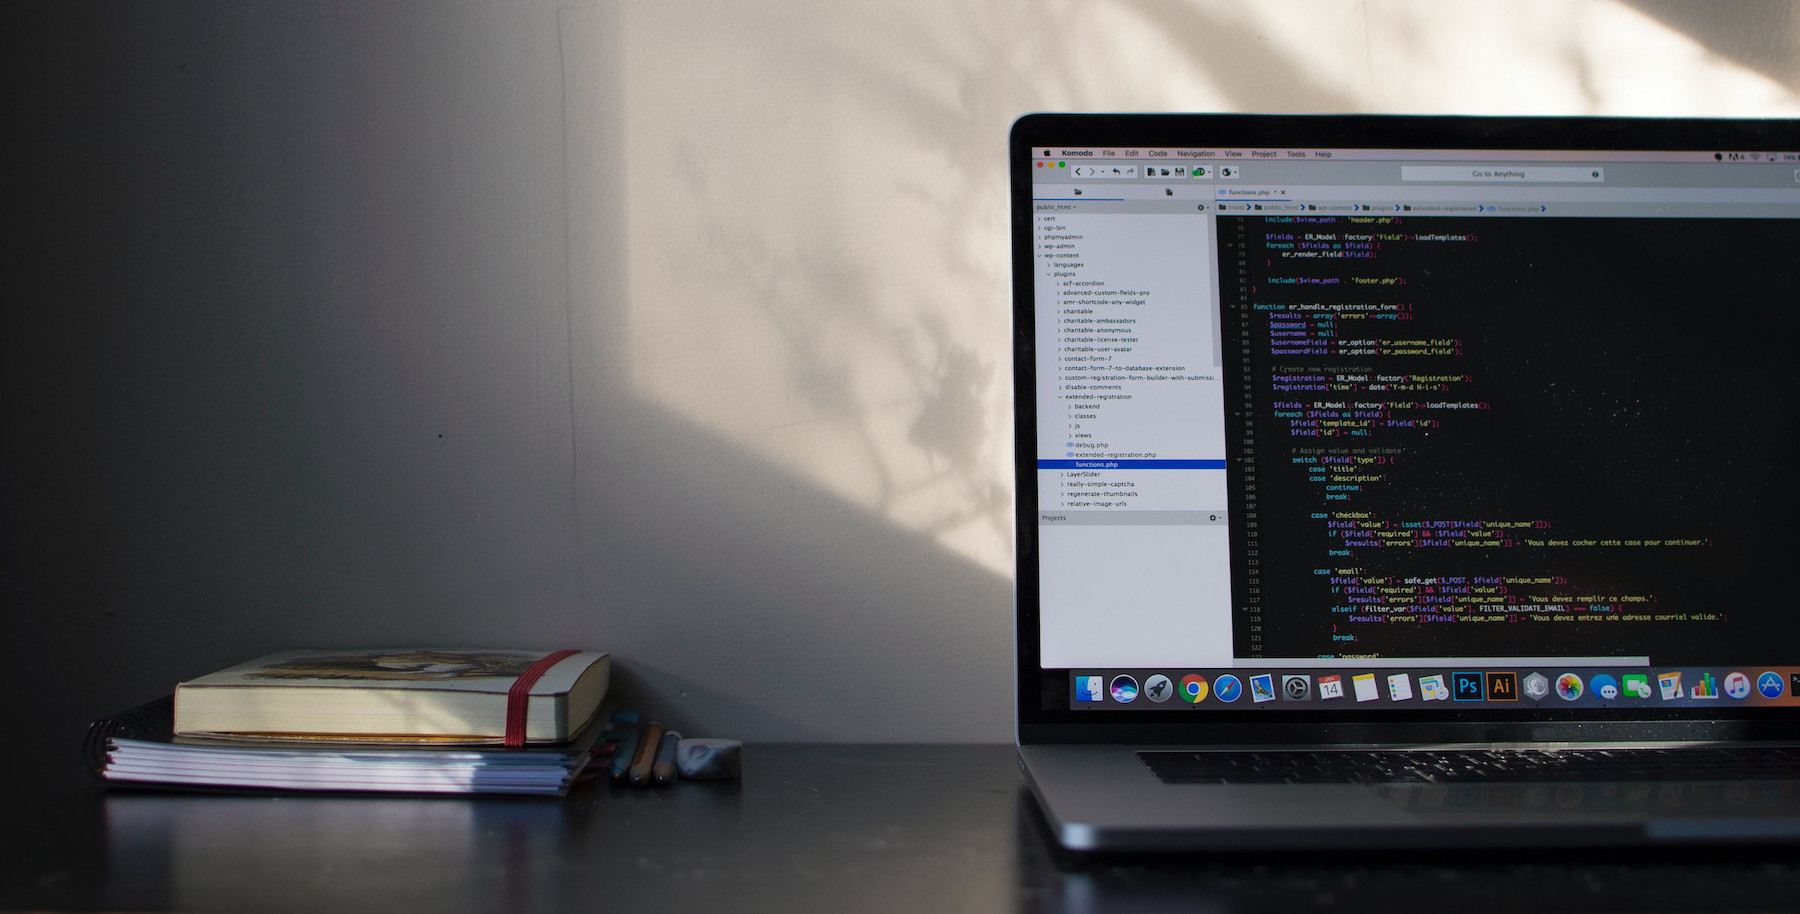
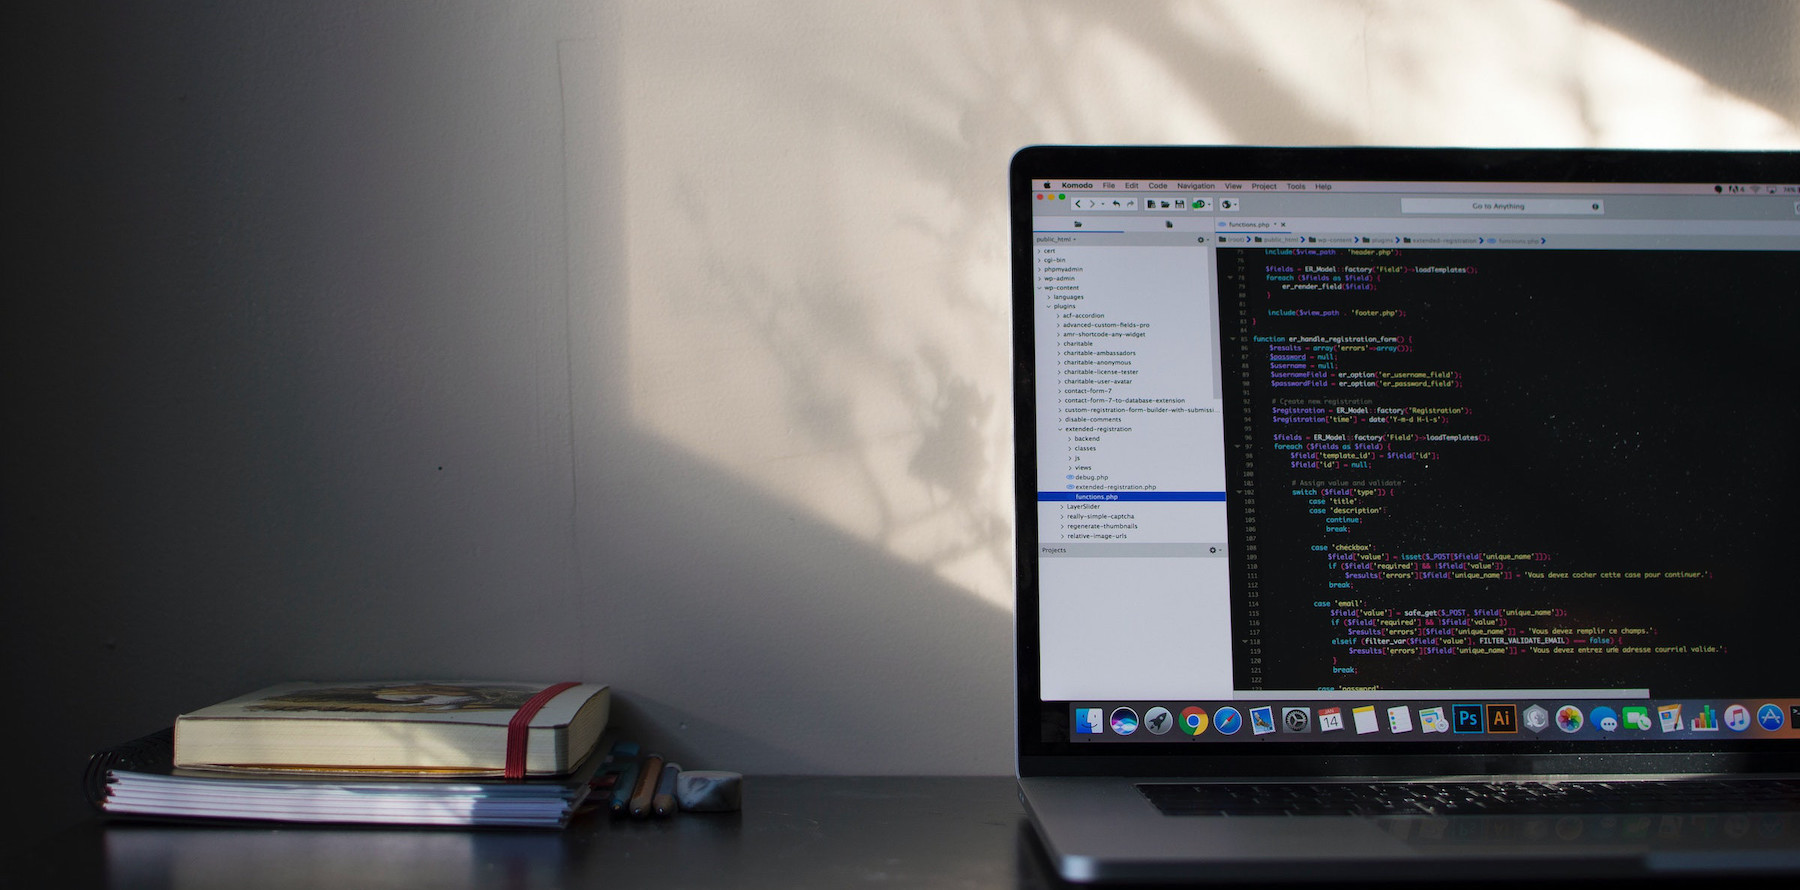
slight changes to background image sizes

Changed region(s): [[0.0311, 0.0, 1.0, 1.0]]

diff --git a/src/components/sections/intro/Intro.js b/src/components/sections/intro/Intro.js
@@ -46,7 +46,7 @@ const styles = (theme) => ({
   },
   longInfo: {
     maxWidth: 500,
-    padding: "20px 0 160px 0",
+    padding: "20px 0 140px 0",
     position: "relative",
     transform: "translateX(calc(-100vw - 500px))",
   },

diff --git a/src/App.css b/src/App.css
@@ -2,7 +2,7 @@
 
 html,
 body {
-  background-color: #90a4ae;
+  background-color: #90a4ae; /* Material UI's Theme Primary Color */
   font-family: sans-serif, "Roboto";
   margin: 0;
   scroll-behavior: smooth;
